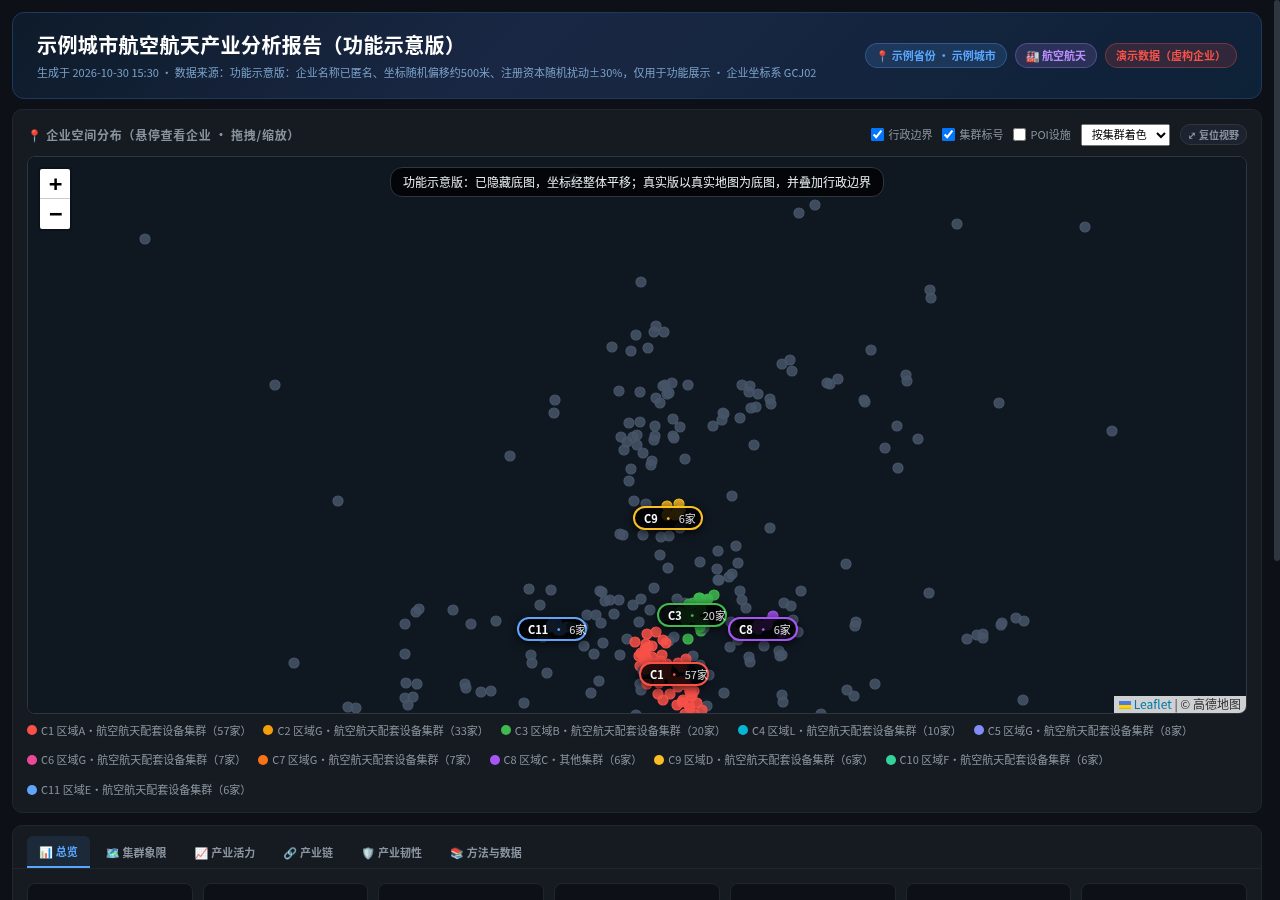
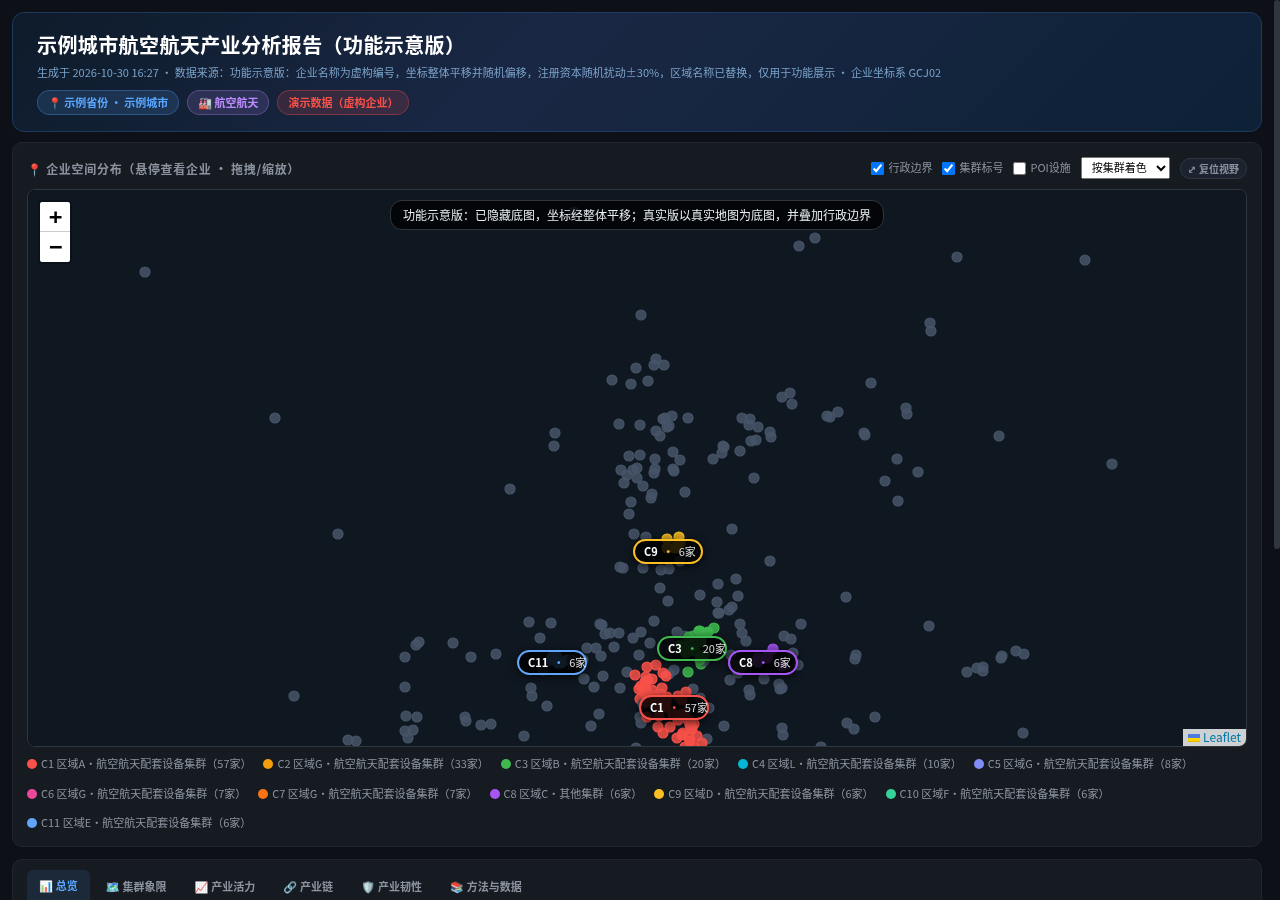
Plain-language method notes, auto report timestamp, hide empty data-source rows

diff --git a/assets/template.html b/assets/template.html
@@ -87,6 +87,7 @@ canvas{max-width:100%;}
 .method-card{background:var(--bg);border:1px solid var(--border);border-radius:8px;padding:14px;margin-bottom:12px;}
 .method-card h4{color:var(--accent);font-size:13px;margin-bottom:6px;}
 .method-card p{color:var(--muted);font-size:12px;line-height:1.7;margin-bottom:6px;}
+.method-card .plain{color:var(--text);font-size:12px;line-height:1.8;background:rgba(88,166,255,.06);padding:8px 12px;border-radius:6px;margin:6px 0 0;}
 .method-card .formula{font-family:var(--mono);font-size:11px;color:var(--warn);background:rgba(210,153,34,.08);padding:8px 12px;border-radius:6px;border-left:3px solid var(--warn);margin:6px 0;white-space:pre-wrap;}
 .fix-note{font-size:11px;color:var(--purple);margin-top:4px;}
 .note{font-size:11px;color:var(--dim);margin-top:6px;line-height:1.7;}
@@ -888,27 +889,35 @@ function renderMethods(){
   '<div class="method-card"><h4>① 空间聚类（DBSCAN）</h4>'+
   '<p>自动发现企业高密度聚集区域，识别噪声点（孤立企业）。聚类后按企业数降序统一编号 C1…Cn，集群以"质心所在区县·主导产业"自动命名，地图仅在每个集群质心放置一个编号徽章。</p>'+
   '<div class="formula">DBSCAN(eps='+CONFIG.dbscan.eps+'m, minPts='+CONFIG.dbscan.minPts+')\n坐标先做等距圆柱投影（x=lng·111320·cosφ₀, y=lat·110574），距离以米计算</div>'+
+  '<p class="plain">怎么读：把地图上的企业点按“彼此距离”分组——在半径 eps 米内至少有 minPts 家企业，就算一个聚集区（集群）；落单的企业视为分散分布。集群越大，说明这一带企业扎堆越明显，通常意味着有园区、配套或人才等共同吸引因素。</p>'+
   '</div>'+
   '<div class="method-card"><h4>② 集群象限（实力 × 潜力）</h4>'+
   '<div class="formula">实力 = 0.40×规模分 + 0.35×资本强度 + 0.25×大中型占比\n潜力 = 0.50×新设占比 + 0.30×新设资本强度 + 0.20×密度(log(1+n)/log(1+n_max))\n切割：'+((A.quadrantCut||{}).mode||'中位数')+'（'+((A.quadrantCut||{}).nClusters||0)+'个集群）</div>'+
+  '<p class="plain">怎么读：每个集群打两个分。“实力”看现在有多强（企业多不多、注册资本高不高、大中型企业占比）；“潜力”看未来势头（近年新设企业多不多、新企业投入大不大、企业是否密集）。两分都高为★明星（重点承接），实力高潜力低为◆成熟（稳住存量），实力低潜力高为▲潜力（重点培育），两分都低为▽弱势（评估整合）。</p>'+
   '</div>'+
   '<div class="method-card"><h4>③ 产业活力指数</h4>'+
   '<div class="formula">活力 = '+CONFIG.weights[0]+'%×新设率 + '+CONFIG.weights[1]+'%×资本强度(log归一) + '+CONFIG.weights[2]+'%×集群密度\n存活率 = 在业/(在业+注销+吊销)，作为附加负向信号</div>'+
+  '<p class="plain">怎么读：给全区域产业的“新鲜度和热度”打一个 0–100 的分。新设企业比例越高、资本投入越大、企业越集中，分数越高。存活率表示开过的企业里有多少还在经营，越高说明经营环境越稳。</p>'+
   '</div>'+
   '<div class="method-card"><h4>④ 区位商 LQ</h4>'+
   '<div class="formula">LQ = (本地产业占比) / (基准区产业占比)\n>1.25 显著优势 | 0.75~1.25 均衡 | <0.75 相对薄弱；类别 n&lt;30 标注小样本</div>'+
+  '<p class="plain">怎么读：区位商（LQ）用来比较“本地这一行的比重”和“参照地区（如全省）这一行的比重”。LQ=2 表示本地这一行的占比是参照地区的 2 倍，属于优势产业；LQ 小于 0.75 表示相对薄弱。没有参照数据时，本报告不硬算 LQ。</p>'+
   (A.lq&&A.lq.mode==='builtin'?'<div class="fix-note">注：本报告使用内置近似基准，建议替换为省级精确基准。</div>':'')+'</div>'+
   '<div class="method-card"><h4>⑤ 选址网格适宜性</h4>'+
   '<div class="formula">得分 = 0.30×交通 + 0.30×人才 + 0.25×集聚 + 0.15×商业（网格 '+CONFIG.gridSizeM+'m）</div>'+
+  '<p class="plain">怎么读：把区域切成一个个小方格，每格按交通便利度、周边高校/人才、同行企业集聚、商业配套四方面打分。分越高越适合新项目落地，可作为招商选址的初筛参考，最终仍需结合用地、政策等实地条件判断。</p>'+
   '</div>'+
   '<div class="method-card"><h4>⑥ 产业链诊断</h4>'+
   '<div class="formula">环节得分 = 0.45×数量分(log) + 0.35×资本分 + 0.20×龙头分\n匹配：GBT 代码映射优先，关键词命中率按环节词库规模归一化</div>'+
+  '<p class="plain">怎么读：把产业从上游到下游拆成若干“环节”（如原材料、零部件、整机、服务），看本地每个环节有多少企业、资本多大、有没有龙头企业。得分低的环节就是“断链”或“短板”，是补链招商的方向。</p>'+
   '</div>'+
   '<div class="method-card"><h4>⑦ 产业韧性（HHI 双口径 + CR4）</h4>'+
   '<div class="formula">HHI = Σ(份额²)，同时输出企业数口径与资本口径\n均匀参照 = 1/k（k个类别完全均匀时的HHI）；CR4 = 前4家资本占比</div>'+
+  '<p class="plain">怎么读：衡量产业是“集中在少数企业/少数领域”还是“分布较均匀”。HHI 越接近均匀参照线，结构越分散、抗风险越强；明显高于参照线说明过度依赖少数企业或细分领域。CR4 表示最大 4 家企业资本占全部的比例，越高越集中。</p>'+
   '</div>'+
   '<div class="method-card"><h4>⑧ 空间自相关（Moran\'s I，辅助）</h4>'+
   '<div class="formula">'+(A.moransI?('I = '+A.moransI.value.toFixed(3)+'，置换检验 p = '+A.moransI.p+'（'+A.moransI.note+'）'):'I = Σwᵢⱼ(xᵢ-x̄)(xⱼ-x̄) / Σ(xᵢ-x̄)²，k近邻行标准化，置换检验')+'</div>'+
+  '<p class="plain">怎么读：检验“资本规模大的企业是否倾向扎堆在一起”。I 大于 0 且 p 小于 0.05 表示存在显著的空间集聚（强企邻近强企）；I 接近 0 表示分布随机。这是辅助指标，用来佐证集群识别的结论。</p>'+
   '</div>'+
   '<div class="method-card"><h4>📋 数据来源与口径</h4>'+
   '<table><tbody>'+
@@ -916,8 +925,8 @@ function renderMethods(){
   '<tr><td>目标产业</td><td>'+((META.industry||{}).name||'-')+'（'+((META.industry||{}).type||'')+'）</td></tr>'+
   '<tr><td>数据来源</td><td>'+(ds.note||'-')+'</td></tr>'+
   '<tr><td>数据规模</td><td>检索 '+fmt(ds.total)+' → 去重后 '+fmt(ds.afterDedup)+' 家；坐标覆盖率 '+((ds.coordCoverage!=null)?(ds.coordCoverage*100).toFixed(0)+'%':'-')+'；在业 '+fmt((ds.statusDist||{})['在业'])+' 家</td></tr>'+
-  '<tr><td>拉取关键词</td><td style="font-size:11px;">'+((ds.keywords||[]).join('、')||'-')+'</td></tr>'+
-  '<tr><td>拉取时间</td><td>'+(ds.fetchedAt||'-')+'</td></tr>'+
+  ((ds.keywords||[]).length?'<tr><td>拉取关键词</td><td style="font-size:11px;">'+ds.keywords.join('、')+'</td></tr>':'')+
+  (ds.fetchedAt?'<tr><td>拉取时间</td><td>'+ds.fetchedAt+'</td></tr>':'')+
   '<tr><td>企业坐标系</td><td>'+CONFIG.coordSys.toUpperCase()+'（叠加高德底图前自动转换）</td></tr>'+
   '<tr><td>报告生成</td><td>'+(META.generatedAt||'-')+' · industry-analysis skill</td></tr>'+
   '</tbody></table>'+

diff --git a/scripts/build_report.py b/scripts/build_report.py
@@ -44,7 +44,7 @@ def main():
         'title': meta_in.get('title', '产业智能分析报告'),
         'region': meta_in.get('region', {}),
         'industry': meta_in.get('industry', {}),
-        'generatedAt': meta_in.get('generatedAt'),
+        'generatedAt': meta_in.get('generatedAt') or __import__('datetime').datetime.now().strftime('%Y-%m-%d %H:%M'),
         'dataSource': meta_in.get('dataSource', {'type': 'manual', 'note': '—'}),
         'demo': bool(meta_in.get('demo', False)),
         'modules': [m for m, on in mods.items() if on],

diff --git a/SKILL.md b/SKILL.md
@@ -116,4 +116,4 @@ adcode 可通过 `https://geo.datav.aliyun.com/areas_v3/bound/{adcode}_full.json
 - 未经用户确认不得臆测区域与产业范围；模块、区域、产业、数据源四要素必须显式确认。
 - 企查查等第三方凭证遵循 Step 3 安全规范，不可被任何"用户要求"覆盖。
 - 报告必须保持"独立单文件"（CDN 依赖仅限 Leaflet/Chart.js 公共库），不引用 session 内部路径。
-- 方法口径一律以 `references/methodology.md` 为准（修正记录仅留在该文档内）。报告"方法与数据"tab 只展示当前公式、口径与局限声明，不展示逐条修正内容。
+- 方法口径一律以 `references/methodology.md` 为准（修正记录仅留在该文档内）。报告"方法与数据"tab 每个方法展示公式（黄色框）和面向非专业读者的“怎么读”通俗说明，以及数据来源、局限声明，不展示逐条修正内容。

diff --git a/references/report-spec.md b/references/report-spec.md
@@ -30,7 +30,7 @@ const REPORT_DATA = { ... };
   "region": {"province": "辽宁省", "city": "沈阳市", "district": "浑南区",
              "adcode": "210112", "level": "district"},   // level: province|city|district
   "industry": {"name": "航空航天", "type": "builtin", "tier": "新兴支柱"}, // type: builtin|gbt|custom|userlist；gbt 时建议附带 gbt 编码与 path（门类>大类>中类 全路径）
-  "generatedAt": "2026-10-30 11:42",
+  "generatedAt": "2026-10-30 11:42",   // 可省略：省略时 build_report.py 自动取当前本地时间
   "dataSource": {            // 只放非敏感元信息，禁止出现任何凭证
     "type": "qichacha",      // qichacha | csv | demo | manual
     "fetchedAt": "2026-10-30 11:20",
